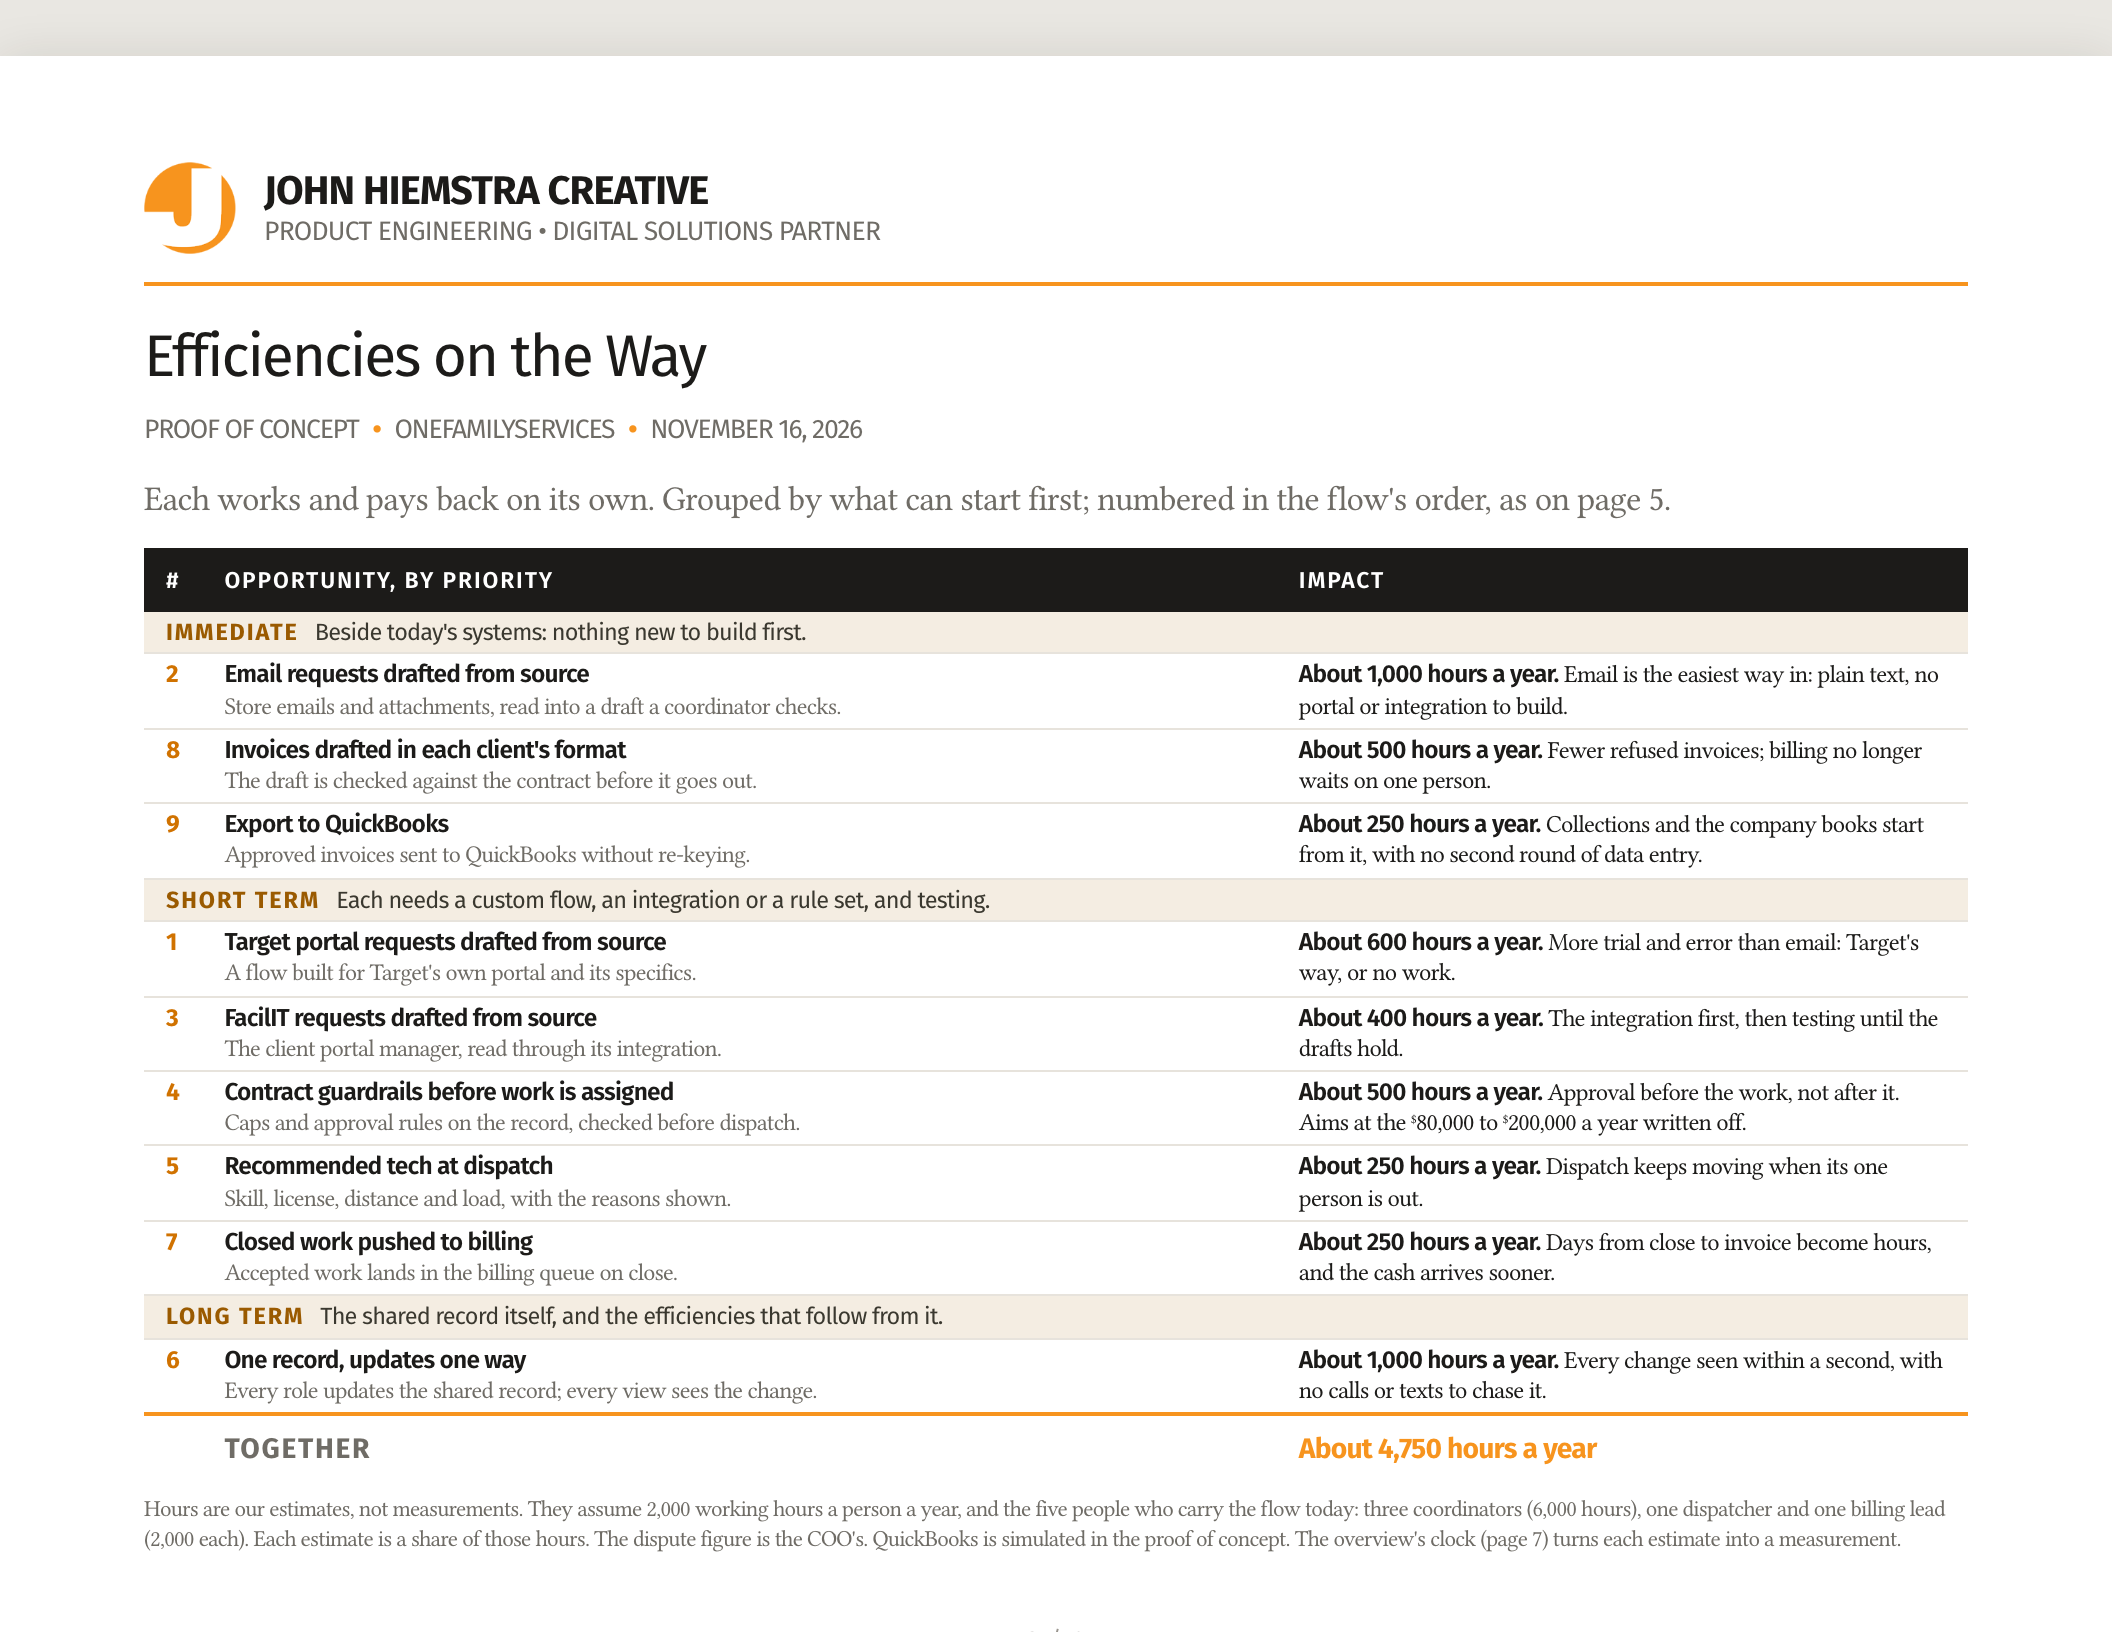
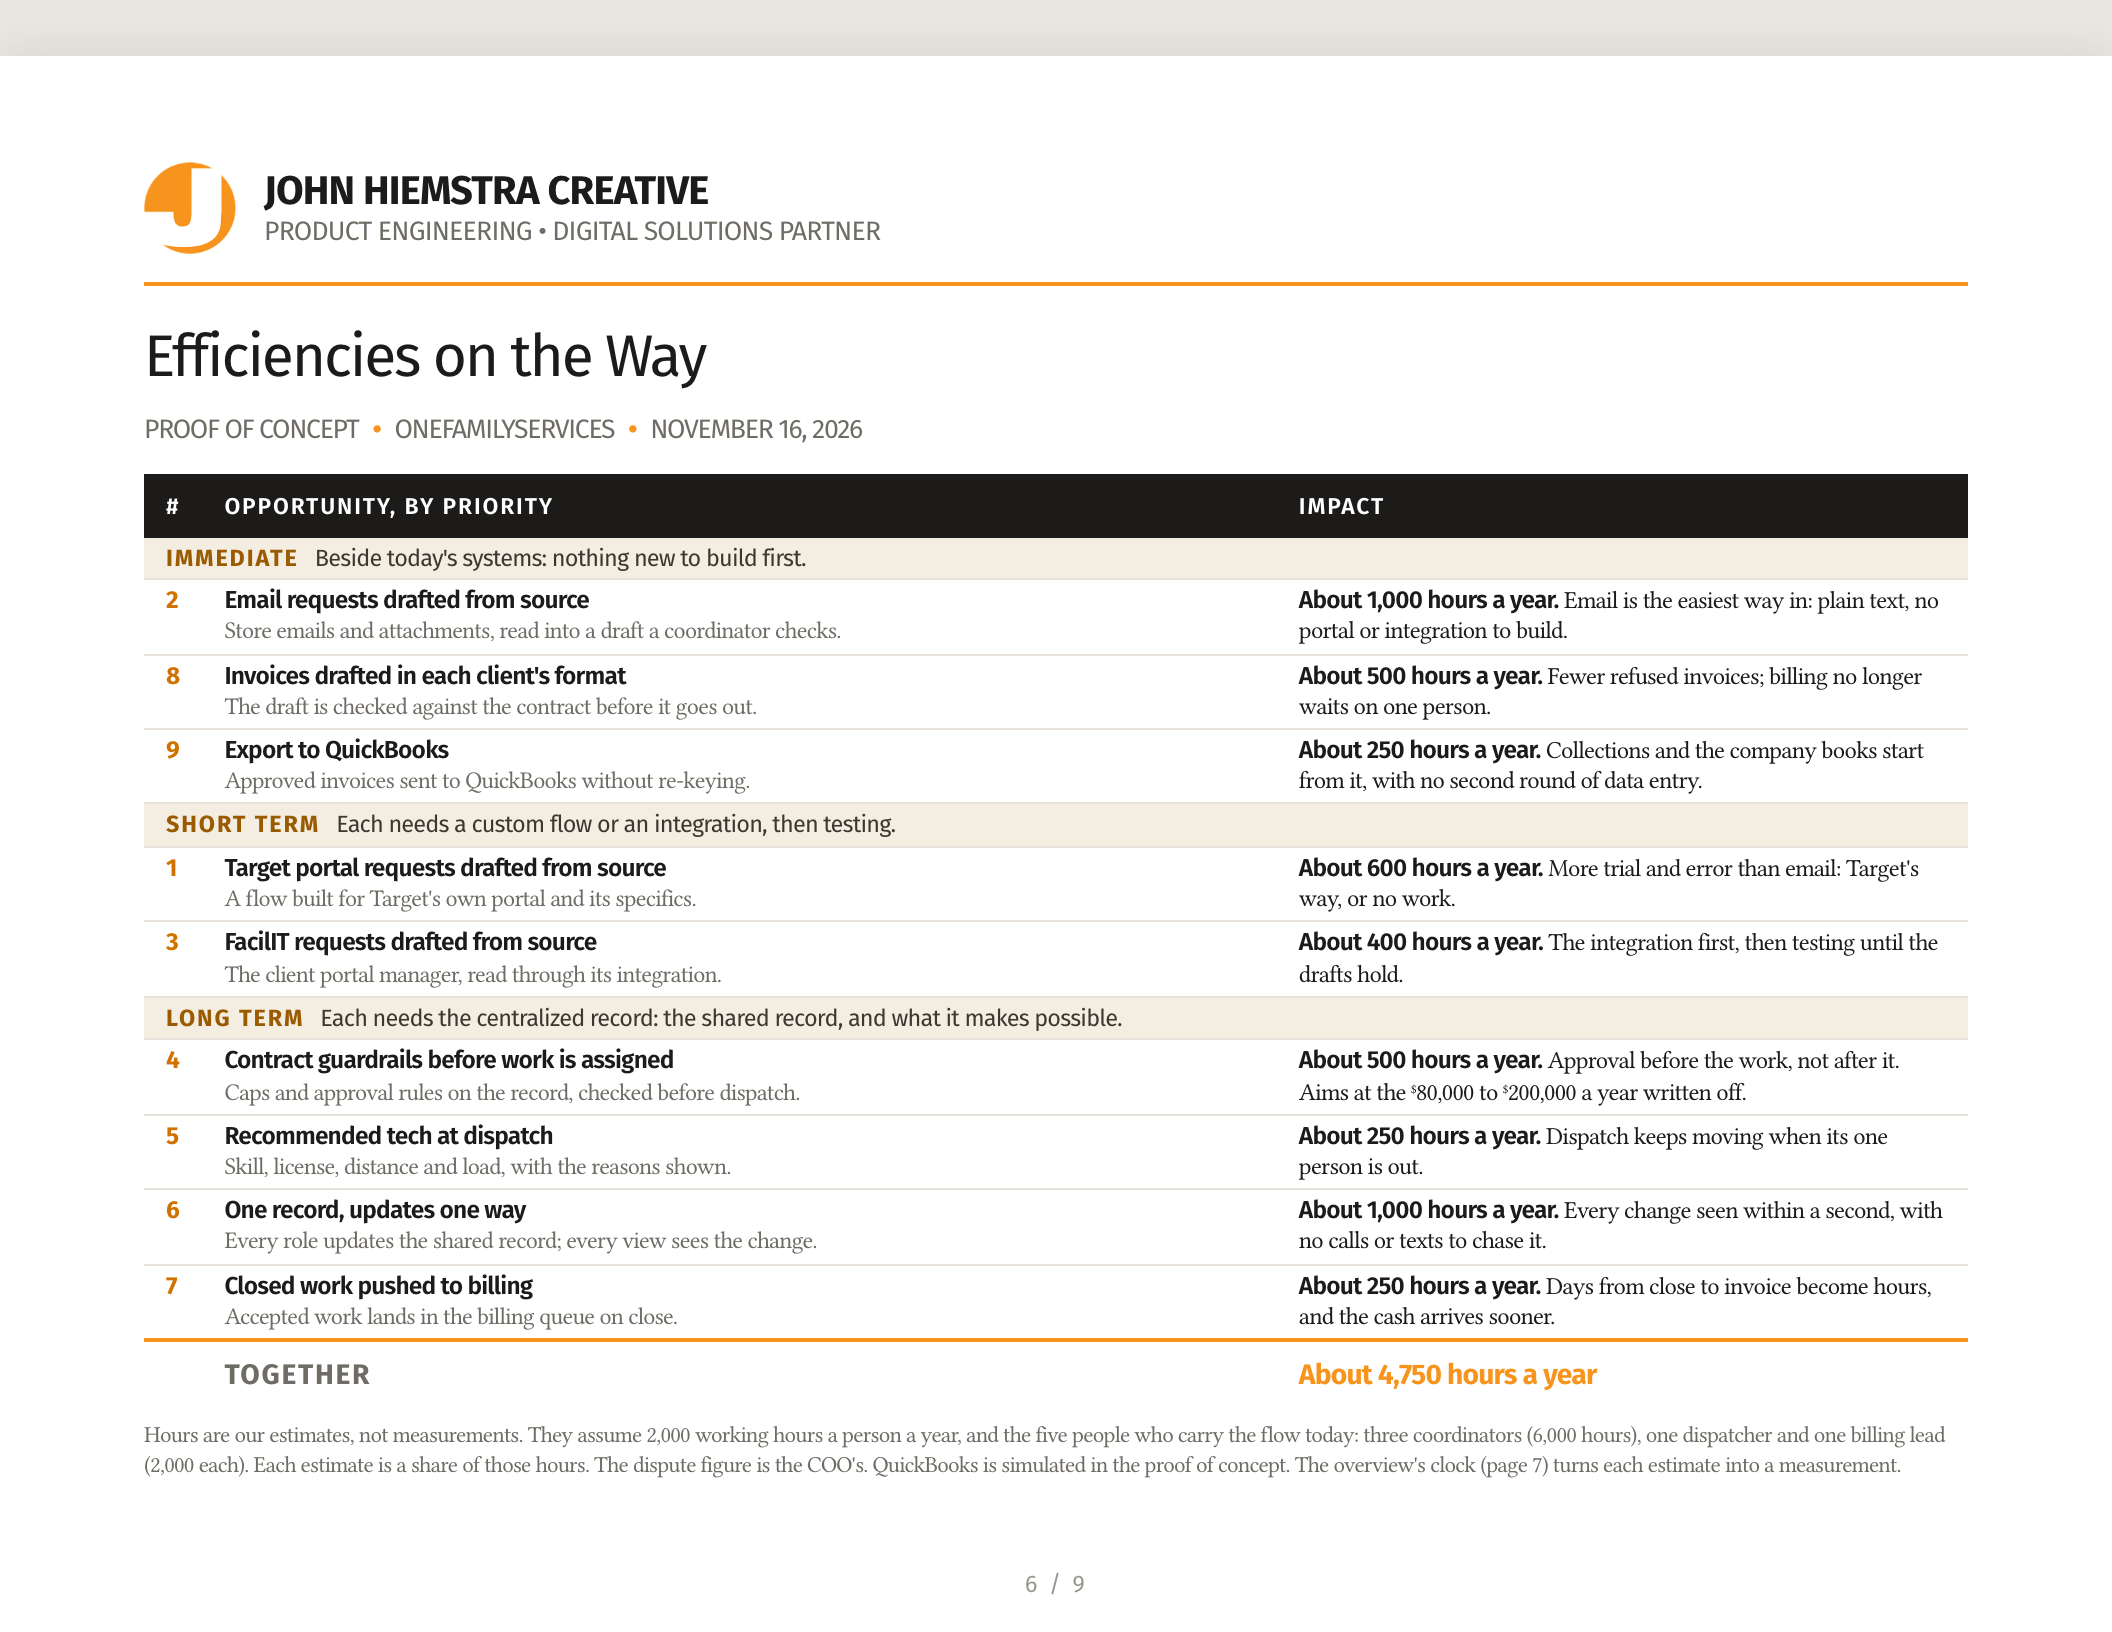
page 6: no dek; 4, 5, 6 and 7 under long term (they need the centralized record) (Angela)

Changed region(s): [[0.0625, 0.2812, 0.9375, 0.9688], [0.5938, 0.9375, 0.625, 0.9688], [0.2188, 0.9375, 0.25, 0.9688]]

diff --git a/docs/flow/final/page-6.html b/docs/flow/final/page-6.html
@@ -32,10 +32,6 @@
       <div class="meta">
         Proof of Concept<span class="dot">&bull;</span>OneFamilyServices<span class="dot">&bull;</span>November 16, 2026
       </div>
-      <p class="dek">
-        Each works and pays back on its own. Grouped by what can start first; numbered in the flow's order, as on page
-        5.
-      </p>
       <table class="opps nine">
         <thead>
           <tr>
@@ -80,7 +76,7 @@
             </td>
           </tr>
           <tr class="group">
-            <td colspan="3"><b>Short term</b>Each needs a custom flow, an integration or a rule set, and testing.</td>
+            <td colspan="3"><b>Short term</b>Each needs a custom flow or an integration, then testing.</td>
           </tr>
           <tr>
             <td class="n">1</td>
@@ -97,6 +93,11 @@
               ><span>The client portal manager, read through its integration.</span>
             </td>
             <td class="i"><b>About 400 hours a year.</b> The integration first, then testing until the drafts hold.</td>
+          </tr>
+          <tr class="group">
+            <td colspan="3">
+              <b>Long term</b>Each needs the centralized record: the shared record, and what it makes possible.
+            </td>
           </tr>
           <tr>
             <td class="n">4</td>
@@ -117,18 +118,6 @@
             <td class="i"><b>About 250 hours a year.</b> Dispatch keeps moving when its one person is out.</td>
           </tr>
           <tr>
-            <td class="n">7</td>
-            <td class="o">
-              <b>Closed work pushed to billing</b><span>Accepted work lands in the billing queue on close.</span>
-            </td>
-            <td class="i">
-              <b>About 250 hours a year.</b> Days from close to invoice become hours, and the cash arrives sooner.
-            </td>
-          </tr>
-          <tr class="group">
-            <td colspan="3"><b>Long term</b>The shared record itself, and the efficiencies that follow from it.</td>
-          </tr>
-          <tr>
             <td class="n">6</td>
             <td class="o">
               <b>One record, updates one way</b
@@ -136,6 +125,15 @@
             </td>
             <td class="i">
               <b>About 1,000 hours a year.</b> Every change seen within a second, with no calls or texts to chase it.
+            </td>
+          </tr>
+          <tr>
+            <td class="n">7</td>
+            <td class="o">
+              <b>Closed work pushed to billing</b><span>Accepted work lands in the billing queue on close.</span>
+            </td>
+            <td class="i">
+              <b>About 250 hours a year.</b> Days from close to invoice become hours, and the cash arrives sooner.
             </td>
           </tr>
           <tr class="total">

diff --git a/docs/plans/2026-11-16-final-presentation.md b/docs/plans/2026-11-16-final-presentation.md
@@ -104,3 +104,4 @@ intake people, $80K–$200K a year written off in disputes, QuickBooks and a few
 | R7 | Gears renumbered (2026-11-17): recommended tech 6 → 3, updates 3 → 4, push to billing 4 → 5, invoices 5 → 6 |
 | R8 | The end of the flow (2026-11-17): invoicing drafts and exports to client systems and QuickBooks; QuickBooks comes first and feeds both collections (the final phase) and the company's accounting |
 | R9 | Page 10 (2026-11-17): the demo passwords, unbranded, in a TEST copy only (`assemble.py --with-logins`, gitignored); out of the final version |
+| R10 | Page 6 (2026-11-17): no dek; rows 4, 5, 6 and 7 are long term, since each needs the centralized record. Immediate: 2, 8, 9. Short term: 1, 3 |
